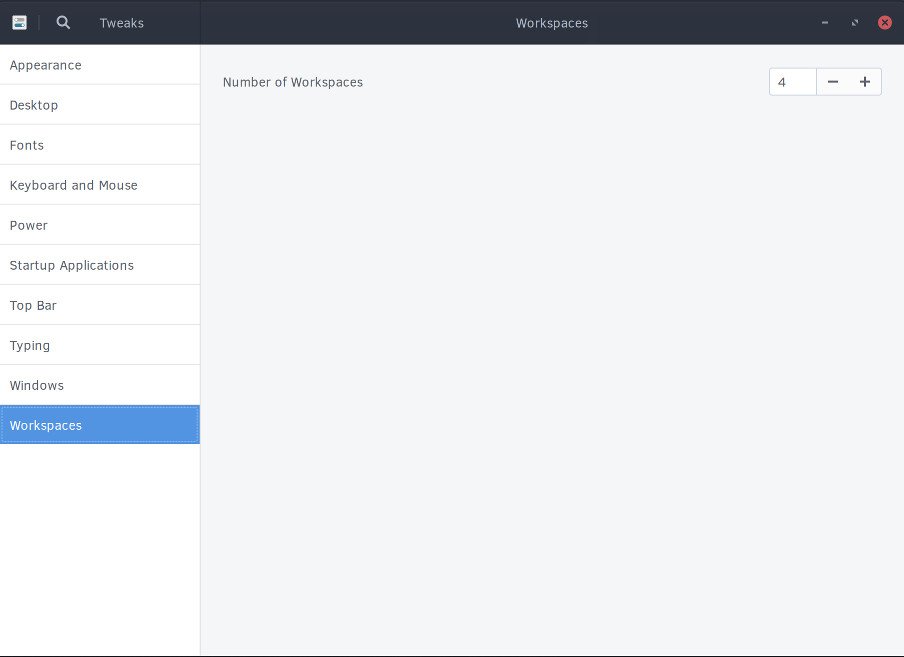
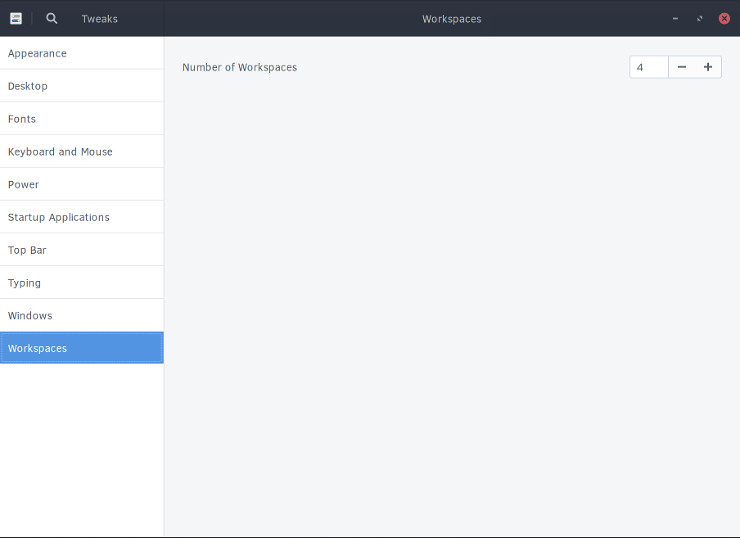
Scale Tweak Workspaces image. Change to using video instead for GNOME.

diff --git a/configuration/enabling-workspaces/en.md b/configuration/enabling-workspaces/en.md
@@ -39,7 +39,7 @@ GNOME Tweak Tool, available in the Software Center.
 Once installed, open Tweak Tool and click on the Workspaces entry in the main panel to change the number of available
 workspaces.
 
-{{< altimg "tweak-workspaces.jpg" "help-center/configuration/enabling-workspaces/" >}}
+<video src="/vids/GNOME-Workspace-Switch.mp4" autoplay="autoplay" loop="loop" width="740" height="416"></video>
 
 ## GNOME
 
